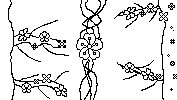
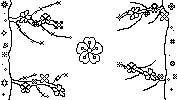
Umm.. middle save?

diff --git a/letter_v2.x/lletterb.h b/letter_v2.x/lletterb.h
@@ -170,64 +170,64 @@ void drawoletter() {   //편지 모양 쓰기
 void drawbody() {   //화면 출력 함수
     int _snowx, _snowy;
     gotoxy(0, 0);
-    printf("                                                                                                                                                                                 ");
-    printf("                                                                                                                                                                                 ");
-    printf("                                                                                                                                                                                 ");
-    printf("                                                                                                                                                        ⣟⡀                       ");
-    printf("                             ⣤⣤⢴⣿⡿                                                                                                      ⣤   ⣔⣯          ⠛⡷⠁  ⣿                   ");
-    printf("                 ⣿⣿⣤⣤⡤       ⠋⠠⣸⡾⣿⣆⠄                                                                                                    ⠓⣔ ⢀⢿            ⣿ ⢀⢴⡯⡀                  ");
-    printf("                 ⣿ ⠛⡿⣬        ⢐⣽ ⠐⡽                                                                                                      ⣿⣔⡀⣿            ⣿⣴⣰⢙ ⡀⢀⣤⣤⡤              ");
-    printf("                 ⠋  ⠈⠙⣿⣤      ⣿⠃⠁        ⠛⠙⡛⢛⣿⣤                                                                                  ⠋⠛⠛⠛⡿⣤⢦⢴⢔⡿⣿⣯⡀          ⢀⣴⢟⠏⠫⠋⠫⠋⠓                ");
-    printf("                       ⠛⣟⠄   ⢀⡿       ⢀ ⡀⣴⢴⢽⠓⠛⣯                                                                                  ⣤⢀      ⠁  ⠫⢷⠁       ⢀⣴⡻⠚         ⡀             ");
-    printf("                         ⣿⡿⡀ ⣿⠋⠂  ⢀⠠⣰⡴⡿⠙⠙⠙  ⠠⣰⣟                                                                                  ⣿⣷⣆⠄        ⠈⣯⣆⠄   ⢀⣴⢟⠎⠈        ⢀⣴⣗⠁            ");
-    printf("                         ⠠⣻⣤⡦⣿ ⡀⢀⢀⢿⠙⠋       ⠐⡯⠂                                                                                  ⠛⠹⣿⣿⢴⢤⣆⠄⡀⢀  ⠈⠚⡿⡤⡀⢀⢀⣿⠙         ⢀⣴⣟⠓              ");
-    printf("              ⢀⡤        ⢀⠠⣿⢋⢈⢙⠫⣟⠓⠋                                                                                               ⢀⣴⢿⠙ ⠁⠋⠫⠋⠫⢿⢴⣤⢀⢀⣵⣽⠫⣷⢋⢀ ⡀⢀ ⡀  ⢀⣴⣟⠓ ⢀ ⡀            ");
-    printf("              ⣷⠛ ⢀ ⡀⣤⢦⢴⢔⡿⡙⠝⢙⢷⠋⠛⡿⣔⡀                                                                                              ⡴⡯⠓⠁       ⠈ ⠋⠫⢓⣿⡿⣿⡿⡋⠓⠋⠏⠋⠏⣷⣥⣦⣿⣷⣦⢴⣔⡿⠙⠓            ");
-    printf("             ⣴⣯⡦⡴⡿⠙⠙⠝ ⠁     ⣿  ⠈⠹⣗⡁                                                                                              ⠈          ⢀⣴⣔⡯⠓⠁ ⣿⣤      ⠋⠫⠛⠹⣻⢴⣤⢀              ");
-    printf("             ⠫⢷⣥⢀⠈         ⠐⣽    ⠫⢷⣥                                                                                                ⡀ ⡀   ⢀⣴⣟⠓ ⠈    ⠫⢿⣔         ⠈⠚⠹⡻             ");
-    printf("              ⠈⠚⡷⣦⣤⢀       ⠐⣽     ⠈⠚⣿⣔⡀    ⡀⣦                                                                                      ⠋⠫⠛⠙⣿⣴⣔⣿⣷         ⠈⣯⣦⢀⢀⣴⢤⢦⢴⢤⡢   ⠈             ");
-    printf("                  ⠋⠓       ⢐⣽        ⠫⢷⣥  ⢐⣽⠋                                                                                          ⣴⣻⠙ ⠫⡿⡀       ⣴⣿⡿⣿⣷⠋⠂⠁ ⠁⠈                 ");
-    printf("                          ⠠⣻⠓         ⠈⠚⣿⣬⣷⠋                                                                                          ⠈⠚    ⡿      ⢀⣬⠚⠙  ⠫⢿⡤                     ");
-    printf("                      ⠠⣰   ⣿   ⢀       ⢀⢀⣿⡟⠄                                                                                                      ⢠⣻⠃⠁      ⠁                    ");
-    printf("                      ⠠⣻⣤ ⢈⢾⡀⣴⣔⡷      ⠈⡾⠋⠓⠁                                                                                                       ⠋⠓⠁                            ");
-    printf("                        ⠛⡿⡴⡿⣟⠓                                                                                                                                                   ");
-    printf("                           ⠈                                                                                                                                                     ");
-    printf("                                                                                                                                                                                 ");
-    printf("                                                                                                                                                                                 ");
-    printf("                                                                                                                                                ⢀ ⡀⣴⣤                            ");
-    printf("                                                                                                                                               ⡴⣟⠝⠹⣻⠫⢿⣔⡀                         ");
-    printf("                                                                                                                                  ⣤⣤⣤⣤⡤           ⣴⢯⠂⠈⢙⢷⠁                        ");
-    printf("                                                                                                                                  ⠛⣿⣤            ⢈⡾⠁   ⠛⡿                        ");
-    printf("                                                                                                                                   ⡿⠛⡿⣔⡀         ⣿⠋⠂                             ");
-    printf("                             ⢀⣿          ⢀                                                                                           ⠈⠹⣳⣥       ⢀⡿           ⡴⣤⣆⠄                ");
-    printf("                         ⣿   ⣿⠓         ⠈⣾⣤   ⣆⠄                                                                                        ⠫⠛⣴⣤ ⡀ ⡀⣿⠋⠂            ⠛⡿⣤               ");
-    printf("                         ⣿⣤ ⠈⣾           ⠠⣗⠁⢀⢬⠚                                                                                           ⠋⠫⠛⣿⢿⠹⣯⢀ ⡀ ⡀ ⡀⢀⢀⣴⢤⢦⣢⢦⢴⣬⣯⠂              ");
-    printf("                    ⣤⡤⣆⡀⢀ ⡓⣴⣬⡾           ⢀⢿⢀⣴⡟⠄   ⡀⢀ ⡀                                                                           ⣤⡤   ⢀ ⡀⡀⣴⡤⡦⣿⣔⢀⢿⠙⠝⠙⠋⠫⠋⠫⠓⠛⠊⠂⠁  ⣥⡿⠓               ");
-    printf("                     ⠈⠙⠝⠙⠝⠙⠫⢿⣔⡀          ⡀⣿⣿⢷⡥⡦⣔⡴⡿⠙⠝⠙⠃⠁                                                                         ⢀⡿⡀⣦⣢⢴⢿⠙⠓⠋⠫  ⠐⣽⡴⣿⣔⡀           ⡴⣟⠄                ");
-    printf("                            ⠈⠙⣷⣥        ⡀⡿⠋   ⠈  ⠈  ⢀⣔                                                                          ⡿⡿⣿⣟⡀⡀      ⢀⢈⢯⠂ ⠫⢷⢦⣢⢀                           ");
-    printf("                   ⣿⣔⡀         ⠫⢿⣔⡀   ⠠⣰⣗⠁        ⢀⣴⣿⣯⠂                                                                          ⠈ ⠋⠋⠓⠁    ⢠⣻⠃⠁    ⠁⠛⡷⣆⡀                         ");
-    printf("                    ⠫⢷⣦         ⠈⢙⢷⡀⡀⠠⣰⢿⠋⠂ ⢀⢀⢀⠠⣰⡤⣦⣿⣿⠙⠓                                                                                    ⢀⡿⡃⠁       ⠈⠹⢯⣆⠄                       ");
-    printf("                  ⢀ ⡀⠈⠚⣿⣔⡀  ⢀ ⡀⢀ ⡀⢛⡿⡚⣿⣔⡀⡀⣴⣔⣟⠓⠋⠛⠙  ⠫⢷⡦⡀                                                                                   ⠐⣽⠋           ⠈⠙⣿⣤   ⣤⣆                 ");
-    printf("                  ⠋⠫⡷⣦⣢⣴⣿⣷⣦⣢⡿⡙⠝⠙⠝⠙⠝⣿⡿⣿⣿⢙⠙⠓         ⠈⠹⢷⢥                                                                               ⣔ ⢀⢴⣟               ⢛⣿⣴⣬⢷                  ");
-    printf("                   ⢀⠠⣰⣔⡿⠙⠙⠝⠋     ⢀⣴⣗⠁ ⠛⡷⣦⣢            ⠁                                                                              ⠈⣯⠂⣴⢟             ⢀⣴⣔⡿⠙⠙⠙                   ");
-    printf("                  ⠐⡽⡋⠏  ⠁       ⣴⡟⠇⠂     ⠛⣿⣔⡀  ⢀⢀ ⡀⡀                                                                                  ⣿⣴⣯⠂⡀⣦⣢⣔         ⠋⠓                        ");
-    printf("                       ⡴⣤⣢⢴⢤⣆⡀⡀⣼⣞⠄        ⡀⣿⡷⣦⣼⣞⠓⠋⠛⠪                                                                                   ⠋⠋⠏⠋⠫                                     ");
-    printf("                           ⠁⠫⣿⢿⢿⣿⣤       ⢀⢿⠙⠈⠹⢷⣆⠄                                                                                                                                ");
-    printf("                           ⡴⣟⠏⠂⠁⠋⠳⣰       ⡿    ⠋                                                                                                                                 ");
-    printf("                           ⠈      ⠛⣟⠄                                                                                                                                            ");
-    printf("                                   ⠛⠙                                                                                                                                            ");
-    printf("                                                                                                                                                                                 ");
-    printf("                                                                                                                                                                                 ");
-    printf("                                                                                                                                                                                 ");
-    printf("                                                                                                                                                                                 ");
+    printf("   ⣤ ⣤    ⣿                                                                      ⣿     ⣿          ⠛⣿⣤    ⣿⠛                                                   ⣿                  \n");
+    printf(" ⣤⣤⣿⠛⣿⣤⣤   ⣿                                                                     ⣿   ⣿⠛             ⣿    ⣿                            ⣤⣤             ⣤⣤⣤      ⣿           ⣤⣤⣤    \n");
+    printf(" ⣤⣿⣤⠛⣤⣿⣤  ⣿⠛                                                                    ⣿    ⣿              ⣿  ⣤⣿⠛                              ⠛⠛⣿⣤       ⣤⣿⠛⠛⠛⣿⣤   ⣤⣿         ⣤⣤⠛⣤⠛⣤⣤  \n");
+    printf("   ⣿⠛⣿   ⣿⠛                                                                     ⣿⣤   ⠛⣿            ⣿⠛ ⣤⣿                        ⣤⣤⣤ ⣤⣤⣤⣤   ⠛⠛⣿⣤  ⣤⣤⠛⣿⣤ ⣤⣿⠛⣤⣤⣿⠛⠛⣿        ⣿⣤⠛⣿⠛⣤⣿  \n");
+    printf("        ⣿⠛                                                                       ⣿    ⠛⣿⣤⣤       ⣤⣿⠛ ⣤⣿                        ⣿⠛ ⣿⣤⠛ ⣤⣿  ⣤⣤⣤⣤⣿⠛⠛⠛ ⠛⣿⠛⣿⠛⣿⠛   ⣿⠛⠛⣿         ⣿⣤⣿    \n");
+    printf("        ⣿                                                                        ⠛⣤      ⠛⠛⣿⣤   ⣤⣿ ⣤⣿⠛                    ⣤ ⣿⠛⠛⠛⣤⣤⠛  ⣤⣿⠛⠛⠛   ⣤⠛⣿   ⠛⣤⣤⠛⣤⣤⠛ ⣤⣿   ⠛⣿⣤              \n");
+    printf("    ⣤   ⣿                                                                         ⣿         ⠛⣿⣤⣿⠛⣤⣿⠛                   ⣤⣿⠛⠛⣿⠛    ⣿⣿⠛⣿⣤⣤    ⣿⠛⣿⠛⣿⠛⣤⠛⠛⠛⠛ ⠛⠛  ⣿⠛  ⣿⠛⠛⣤ ⣤⠛⠛⣿         \n");
+    printf("        ⣿                                                                         ⠛⣿⣤       ⣤⣤⣿⣿⠛⣿⣤                  ⣤⣿⣿⣤⣤⣤⠛⠛⠛⠛⣤⠛⠛⣤   ⣿⣤⣤⣿⠛ ⠛⣿⠛⣿⠛⠛       ⣤⣿⠛   ⠛⣤ ⣤⠛⣤ ⣤⠛         \n");
+    printf("        ⣿                                                                           ⠛⠛⣤⣤ ⣤⣿⣿⣿⠛    ⣿⣤               ⣤⠛         ⣿⠛  ⣿⣤⣤⣤⠛  ⣿   ⠛⠛         ⣤⣿      ⣤⠛⣤ ⣤⠛⣤          \n");
+    printf("     ⣤  ⣿                                                                             ⣤⣿⣿⣿⣿⠛       ⠛⣿             ⠛           ⣿⣤⣤⠛⠛    ⣤⣿              ⣿⠛      ⣿  ⣤⠛⣤  ⣿         \n");
+    printf("    ⠛⣤⠛  ⣿⣤                                          ⣤⣤⣿⠛⠛                          ⣤⣿⠛⣤⣿ ⠛⣿⣤       ⣿⣿                              ⣤⣤⠛⠛             ⣤⠛        ⠛⠛⠛  ⣤⠛⠛⠛         \n");
+    printf("          ⠛⣿                                   ⣤⣤⣤⣿⠛⠛                             ⣤⠛⠛  ⣿     ⠛⣤   ⣤⣿⠛                             ⣤⣤⠛                               ⠛⣿           \n");
+    printf("           ⣿                              ⣤⣤⣿⠛⠛⠛                                  ⠛⣿⣤⣤ ⣿      ⠛⣿⣿⣿⠛                            ⣤⣤⠛⠛                                  ⣿           \n");
+    printf("           ⣿⣤                         ⣤⣤⠛⠛                                           ⠛⣿⣿⣤⣤⣤⣤⣿⠛⠛  ⣿⣤                          ⣤⣿⠛                                    ⣤⣿    ⣤⠛⣤    \n");
+    printf("            ⣿          ⣤⣤⠛⠛⣿      ⣤⣤⠛⠛                                              ⣤⣤⣿⠛⠛⠛ ⠛⣿⣤    ⣿                                                                 ⣿      ⠛     \n");
+    printf("   ⣿⣤       ⠛⣿     ⣤⠛⠛⠛⣿  ⣤⣿    ⣤⠛⠛        ⣤⣤⣤                                   ⣤⣿⠛⠛ ⣿      ⣿    ⣿                                                                ⣿         ⠛   \n");
+    printf(" ⣤⣿  ⣿⠛      ⣿     ⣿   ⠛⣤⣤⠛⣤⣤⣤⣤⠛        ⣤⣤⠛⠛ ⠛⠛⣤⣤                               ⣿⠛   ⣤⣤⣿⣤ ⣤⣤⣤⣿    ⣿⣤                                                               ⣿             \n");
+    printf("   ⣿⠛        ⣿  ⣤⣤⠛⠛⠛⣿⣤⣿⣿    ⣤⣿        ⣤⠛⠛⣿⣤ ⣤⣿⠛⠛⣤                              ⣿   ⣿    ⠛    ⣿    ⣿                                                              ⣤⣿             \n");
+    printf("             ⣿⠛⠛   ⣿⠛  ⣤⠛⠛⣤⣤⣤⣿⣿⣤       ⠛⣤ ⣤⣿⣿⣿⣤ ⣤⠛                              ⣿  ⣿    ⣤⣤⣤    ⣿  ⣤⣿                                                              ⣿              \n");
+    printf("             ⣿ ⣤⣿⠛⣿⠛ ⣤⠛⣿ ⣤⣿⣤   ⠛⣿⣤⠛⣿⣤⣤⣿⠛⣤⠛⠛ ⣿ ⠛⠛⣤⠛⠛⠛⣿⣤⣤⣤⣤  ⣤⣤⣤                ⣤⠛⠛⠛⠛⠛⣿⣤  ⣿⣤⣿    ⣿⠛⠛⣿⣤⣿⠛                                                            ⣿        ⣤ ⣤   \n");
+    printf("      ⣤⣤ ⣤   ⣿⠛⣿  ⠛⠛⠛⠛ ⠛⠛⠛ ⠛⣿⣤ ⣿⠛⣿⠛⣿⠛⣤  ⣿⣤⣤⣿⠛⣿⣤⣤⠛    ⠛⣿⣿⠛⣤⣤⠛⣿⣿               ⣿⠛       ⠛⣤ ⣿    ⣤⠛    ⠛⣤                                                            ⣿       ⠛⣿⠛⣿⠛  \n");
+    printf("      ⣿⣤⠛⣤   ⣿ ⠛⠛⣿            ⠛⣤⣿⣿⠛⣿⠛⣿⣤⣿⣿      ⠛⠛⠛⠛⠛⣿⣤  ⣿  ⣿                 ⣿   ⣤⣤⣤   ⠛⣤⣿   ⣤⠛⣤⣤⣤   ⠛⣿                                                          ⣤⣿       ⠛⣿⠛⣿⠛  \n");
+    printf("     ⣿⣤⣤⠛⠛   ⣿   ⠛⣿              ⠛⠛ ⠛⠛  ⠛⣿⣤⣤         ⠛⣿⣿⣤⠛⠛⣤⣿⣿              ⣿    ⣿⣤⠛⣤⣤ ⣤⠛⠛⠛⣤⠛⣤⣤⠛⣤⣿    ⣿                                                          ⣿               \n");
+    printf("            ⣤⠛   ⠛⣿⣤                      ⠛⣿⣤        ⠛⠛⠛⠛  ⠛⠛⠛              ⣿      ⣤⣤⣤⠛⣿   ⣿⠛         ⣿                                                          ⣿               \n");
+    printf("            ⣿     ⠛⣿⣤                        ⠛⣿⣤                             ⣿⣤⣤ ⣤⠛    ⣤⣿⠛⠛⣤⣤⣤    ⣤⣤⣿⠛                                                           ⣿               \n");
+    printf("           ⣿⠛       ⠛⣿⣤                        ⠛⣿⣤⣤                             ⣿    ⣤⠛ ⣿   ⠛⣤⠛⠛⠛⠛⣤                                                              ⣿               \n");
+    printf("  ⠛ ⣿ ⠛   ⣿⠛          ⠛⠛⣤⣤                        ⠛⠛⣿⣤⣤⣤                       ⣿   ⣿⠛⣿  ⣿    ⣿⠛⣿   ⣿                                                             ⣿               \n");
+    printf("  ⠛⠛⣤⠛⠛   ⣿              ⠛⣿⣤                           ⠛⠛⠛⠛⠛⠛⠛⠛⠛⣿⣤⣤⣤⣤          ⣿   ⠛⠛⠛   ⣿   ⠛⠛⠛   ⣿                                                             ⠛⣿    ⣤⠛⣤       \n");
+    printf("  ⠛ ⠛ ⠛    ⣿               ⠛⠛⣤⣤                                                ⠛⣤⣤⣤     ⣤⠛⣤     ⣤⣤⣤⠛                                                              ⣿     ⠛        \n");
+    printf("          ⣤⠛                   ⠛⠛⣤⣤                                                ⣿⣤⣤⣤⠛⣤  ⠛⣤⣤⣤⣿                                                                  ⣿              \n");
+    printf("          ⣿                        ⠛⠛⠛⣤⣤⣤                                         ⣿    ⣤⠛⣿  ⣿                                                           ⣤⠛        ⣿        ⣤⣤⣤   \n");
+    printf("           ⣿                                                                      ⣿   ⣿⠛⣿    ⣿                       ⣿         ⣤⣿⠛⣿⣤                  ⣤⠛          ⣿       ⣿⠛⣤⠛⣿  \n");
+    printf("  ⠛        ⣿                                                                       ⣿ ⣿⠛ ⣿   ⣿⠛                        ⠛⠛⣿⣤⣤  ⣿⣿⣤   ⣤⣿⣿            ⣤⣤⣿⠛            ⣿       ⠛⣿⣤⣿⠛  \n");
+    printf("           ⣿                                                                       ⠛⣿⣿⣤ ⣿   ⣿                            ⠛⣿⠛⣿  ⠛⣿⣤⣿⠛  ⣿⣤⣤⣤⣤⣤⣤⣤⣤⣿⠛⠛                ⣿              \n");
+    printf("    ⣤⠛⣤    ⣿                                                                        ⣿ ⠛⣿⣿⣤ ⣿                              ⠛⠛ ⠛⣤⣿⠛⣿⠛⣿⣤⠛  ⠛⠛⣿⣤      ⣿⠛⣿⣤⣤           ⣿⣤             \n");
+    printf("     ⠛     ⣿                                                                        ⠛⣿ ⣤⣿⣿⣿⣿⣤                                ⣿  ⣤⣿⣤  ⣿ ⣿⣤⣤  ⠛⣤⣤⣤⣤ ⣿   ⣿            ⣿             \n");
+    printf("           ⣿⣤                                                                        ⣿ ⣿⣿⠛  ⠛⠛⣿                               ⠛⠛⠛ ⠛⠛⠛  ⠛⠛⣿⣿⣿⣤⣿  ⠛⠛⣤  ⣤⠛⠛⣿⣤         ⣿             \n");
+    printf("           ⠛⣿                    ⣤⣤⣤⣤⣿⠛   ⣿⠛⠛⣤ ⣤⠛⠛⣿           ⣤⣤⠛⠛⠛⠛                 ⠛⣿⠛⣿     ⠛⣿                                     ⣤⣤⣿⣿   ⠛ ⣿⣤⣤⣤⠛⣿⣿⠛⣤⣤⣤⣿  ⣿⠛⣤⠛⣿ ⣤⣿         ⣿⠛⣤⠛\n");
+    printf("            ⣿⣤             ⣤⣤⣤⣤⠛⠛⠛        ⠛⣤ ⣤⠛⣤ ⣤⠛         ⣿⠛                      ⣤⣿⠛⣤⠛⣿     ⠛⣿                                ⣤⣤⣿⠛⠛         ⣿   ⣤⣿  ⠛⣤⣤⠛⣿⣤⠛⣤⠛⣤⠛ ⣿         ⣤⠛⣤⠛\n");
+    printf("       ⣤     ⣿⣤⣤     ⣤⣿⠛⠛⠛⠛       ⣤⣤ ⣤⣤    ⣤⠛⣤ ⣤⠛⣤       ⣤⣿⠛                      ⣤⣿⠛  ⣿ ⠛⣿     ⣿                          ⣤⣤⠛⠛⠛⠛⠛             ⠛⣤⣤⣤⣿ ⣿⣤⣤ ⣿⣤⣤⣿⣿ ⠛⠛ ⣤⣿   ⣤⠛⣤   ⠛⠛ ⠛\n");
+    printf("    ⣤⣤⣿ ⣿⣤⣤  ⣿ ⠛⠛⠛⠛⠛⣿⣤⣤⣤⣤⣤⣤⣤⣤⣤⣤⣤⣤⣤⠛⣤⠛⣤⠛⠛⠛⠛⣿  ⣤⠛⣤  ⣿     ⣿⠛                       ⣤⣿     ⣿ ⠛⣿    ⣿                                                      ⠛⠛⠛  ⣤⠛⠛⠛⠛⠛⠛⣿    ⠛        \n");
+    printf("     ⣿   ⣿   ⠛⣿⠛⣿⣤⣤⣤     ⣤⣿⠛⣿⣤    ⣿⣤⠛⣤⣿   ⠛⠛⠛   ⠛⠛⣿⣤⣤⣤⣤⠛                         ⣿      ⣿⣤ ⣿    ⣿⣤                                                        ⣤⠛      ⣤⣿             \n");
+    printf("    ⠛⠛⣿ ⣿⠛⠛   ⣿    ⠛⠛⣿⣤⣿⣿⣤   ⣤⣿⣿ ⣤⣤⣤⣤⣤⣤⠛⠛⠛⠛⠛⠛⠛⠛⣿⣤⣤⣤⣤  ⠛⠛⣿⣤⣤⣿⠛⣿⣤⣤                ⣿⠛       ⣿ ⣿    ⣤⣿                                                     ⣤⣤⣿⠛       ⣿              \n");
+    printf("       ⠛      ⣿       ⣿  ⠛⣿⣤⣿⠛  ⣿⠛    ⣿           ⠛⠛⣤⣤⣤⣤⣤⣤ ⣿   ⣿                ⣿        ⠛⣿⠛    ⣿                                                  ⣤⣤⣿⠛⠛          ⣿              \n");
+    printf("             ⣤⣿        ⠛⣤⣿⠛⣿⠛⣿⣤⠛       ⠛⣤            ⠛⣿  ⠛⠛⣤  ⣤⠛⠛⣿⣤            ⣿⠛        ⣤⣿     ⣿                                             ⣤⣤⣤⣿⠛⠛              ⣿       ⣤⣿⣤    \n");
+    printf("             ⣿         ⣿  ⣤⣿⣤  ⣿         ⠛⣤            ⣿⣤⣤⣤⠛⣿⣿⠛⣤⣤⣤⣿            ⣿⣤       ⣤⣿⣿    ⣤⣿                                            ⠛⠛                   ⣿        ⠛     \n");
+    printf("    ⣤⣿⣤      ⣿          ⠛⠛⠛ ⠛⠛⠛            ⠛⣤           ⣿   ⣤⣿  ⠛⣤⣤             ⣿      ⣤⣿ ⣿⣤   ⣿                                                                  ⣿              \n");
+    printf("     ⠛      ⣤⣿                               ⠛⣤         ⠛⣤⣤⣤⣿ ⣿⣤⣤ ⣿             ⣿     ⣤⣿  ⣤⣿  ⣿⠛                                                                  ⣿              \n");
+    printf("            ⣿                                  ⠛⠛⣤              ⠛⠛⠛             ⣿    ⣤⠛   ⣿   ⣿                                                                   ⣿              \n");
+    printf("           ⣤⣿                                                                   ⣿⣤  ⣿⠛    ⣿  ⣿                                                                    ⠛⣿             ");
     gotoxy(0, 0);
     beforerand(1);
-    for(_snowy=0;_snowy<50;_snowy++) {
+    /*for(_snowy=0;_snowy<50;_snowy++) {
         for(_snowx=0;_snowx<177;_snowx++) {
             gotoxy(_snowx, _snowy);
             if(!(rand()%25)) {
-                printf("*");
+                printf("@");
             }
         }
-    }
+    }*/
 }

diff --git a/letter_v2.x/letter_v2_0.c b/letter_v2.x/letter_v2_0.c
@@ -69,13 +69,13 @@ int lsearch() {
         gotoxy(57, 32);
         switch(errno) {
             case ENOENT:
-                printf("|      현재 동작에 맞는 파일을 찾을 수 없습니다      |"); break;
+                printf("|      현재 동작에 맞는 파일을 찾을 수 없습니다      |"); _findclose(hFile); break;
             case EINVAL:
-                printf("편지 형식의 파일을 찾을 수 없습니다 (임의로 번경하셨나요?)\n"); _findclose(hFile); break;
+                printf("|             잘못된 파일 경로입니다             |"); _findclose(hFile); break;
             case ENOMEM:
-                printf("파일 이름이 너무 깁니다\n"); _findclose(hFile); break;
+                printf("|       메모리가 부족하거나 이름이 너무 깁니다       |"); _findclose(hFile); break;
             default:
-                printf("알 수 없는 오류입니다.\n"); _findclose(hFile); break;
+                printf("|              알 수 없는 에러입니다              |"); _findclose(hFile); break;
             }
             SSleep(3);
             return 0;

diff --git a/nstandalonefunc/amidreamingaboutinputthehangul.c b/nstandalonefunc/amidreamingaboutinputthehangul.c
@@ -1,0 +1,7 @@
+#include <stdio.h>
+int main() {
+    char a[50];
+    scanf("%s", a);
+    printf(a);
+    for(int i=0;a[i]!='\n'&&a[i]!='\0';i++) printf("%d (%c)", a[i], a[i]);
+}
